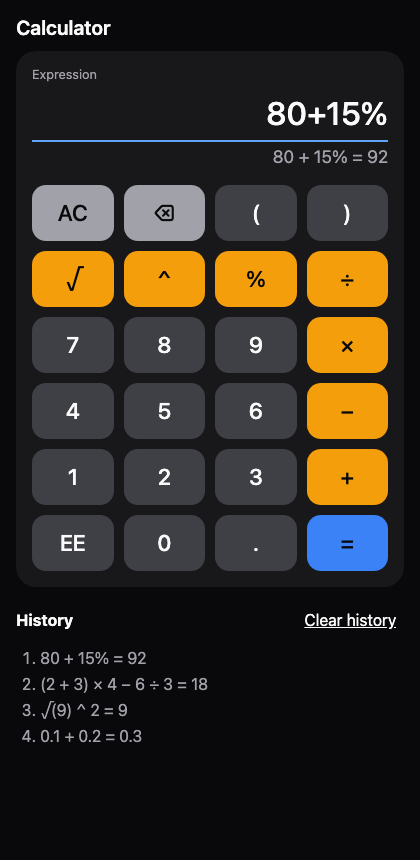
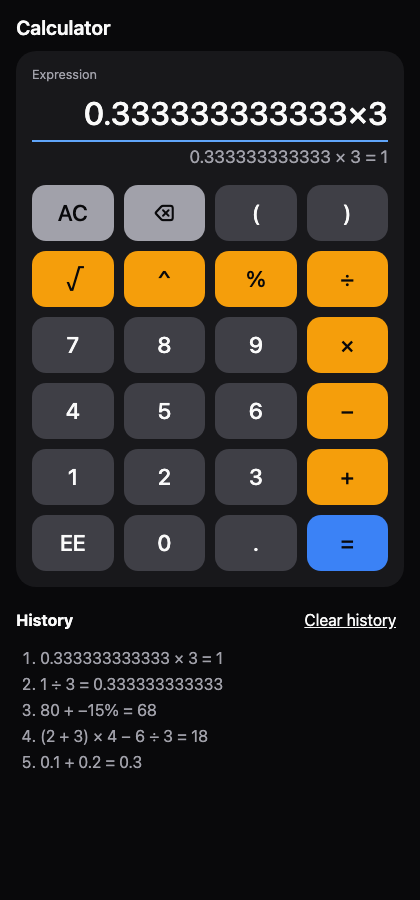
docs: retake the screenshot and add the review prompts to PROMPTS.md
The screenshot shows the continuation from the full result and the
phone percentage after a unary minus.

Changed region(s): [[0.031, 0.0, 0.9595, 0.8767]]

diff --git a/e2e/tests/screenshot.spec.ts b/e2e/tests/screenshot.spec.ts
@@ -3,15 +3,28 @@ import { expect, test } from "@playwright/test";
 // Takes the README screenshot. Run it with `npm run screenshot` while the stack runs.
 test.skip(!process.env.SCREENSHOT, "Set SCREENSHOT=1 to take the README screenshot.");
 
-test.use({ viewport: { width: 420, height: 860 }, colorScheme: "dark" });
+test.use({ viewport: { width: 420, height: 900 }, colorScheme: "dark" });
 
 test("README screenshot", async ({ page }) => {
   await page.goto("/");
   const expression = page.getByRole("textbox", { name: "Expression" });
-  for (const input of ["0.1+0.2", "√(9)^2", "(2+3)*4-6/3", "80+15%"]) {
+  const status = page.getByRole("status");
+
+  for (const [input, result] of [
+    ["0.1+0.2", "0.1 + 0.2 = 0.3"],
+    ["(2+3)*4-6/3", "(2 + 3) × 4 − 6 ÷ 3 = 18"],
+    ["80+-15%", "80 + −15% = 68"],
+    ["1/3", "1 ÷ 3 = 0.333333333333"],
+  ] as const) {
     await expression.fill(input);
     await expression.press("Enter");
-    await expect(page.getByRole("status")).toContainText("=");
+    await expect(status).toHaveText(result);
   }
+
+  // Continue from the full result: the display shows 0.333333333333, but 1 is the answer.
+  await expression.pressSequentially("*3");
+  await expression.press("Enter");
+  await expect(status).toHaveText("0.333333333333 × 3 = 1");
+
   await page.screenshot({ path: "../docs/screenshot.png", fullPage: true });
 });

diff --git a/PROMPTS.md b/PROMPTS.md
@@ -171,3 +171,27 @@ And also make PROMPT.md with my first prompt and in addition to these and also o
 ```
 
 Result: `SPEC.md` got multi-operator expressions, brackets, a phone-style keypad, the phone percentage rule and 1 expression endpoint. This file was created.
+
+## 4. Review the code before sharing
+
+```text
+Make repo public. /engineering:code-review review the calculator-api main branch before I share it
+```
+
+Result: the repository became public and CI passed. The review found no critical issues and listed 8 smaller items.
+
+## 5. Fix review items 1, 2 and 3
+
+```text
+Fix review items 1, 2 and 3 test-first: make `make check` run `make down` when `make up` fails, reject JSON keys that are not exactly `expression` (other case or duplicate) with INVALID_REQUEST, and set `Vary: Origin` on every response. 1 commit each, then push and check CI.
+```
+
+Result: 3 test-first commits. `make check` stops the stack after a failed `make up`, the API rejects other or duplicate JSON keys, and every response has `Vary: Origin`. CI passed.
+
+## 6. Fix review items 4, 6 and 7
+
+```text
+For review items 4, 6 and 7: add a JSON NOT_FOUND 404, make 80 + −15% follow the phone rule, and keep the full result when continuing after =. Update SPEC.md in the same commits, test first, then push and check CI.
+```
+
+Result: 3 test-first commits with SPEC.md changes. An unknown path returns `NOT_FOUND`, `80 + −15% = 68`, and `1 ÷ 3`, then `× 3`, gives `1`. CI passed.

diff --git a/README.md b/README.md
@@ -6,7 +6,7 @@ The source of truth for behavior, the API contract and the tests is [SPEC.md](SP
 
 ## 1. Overview
 
-![The calculator in dark mode, with a result and the history](docs/screenshot.png)
+![The calculator in dark mode: 1 ÷ 3, then × 3, gives 1, and the history shows 80 + −15% = 68](docs/screenshot.png)
 
 - 7 operations: add, subtract, multiply, divide, power, square root and percentage.
 - Expressions with more than 1 operator and with brackets, for example `(2 + 3) × 4 − 6 ÷ 3 = 18`.
